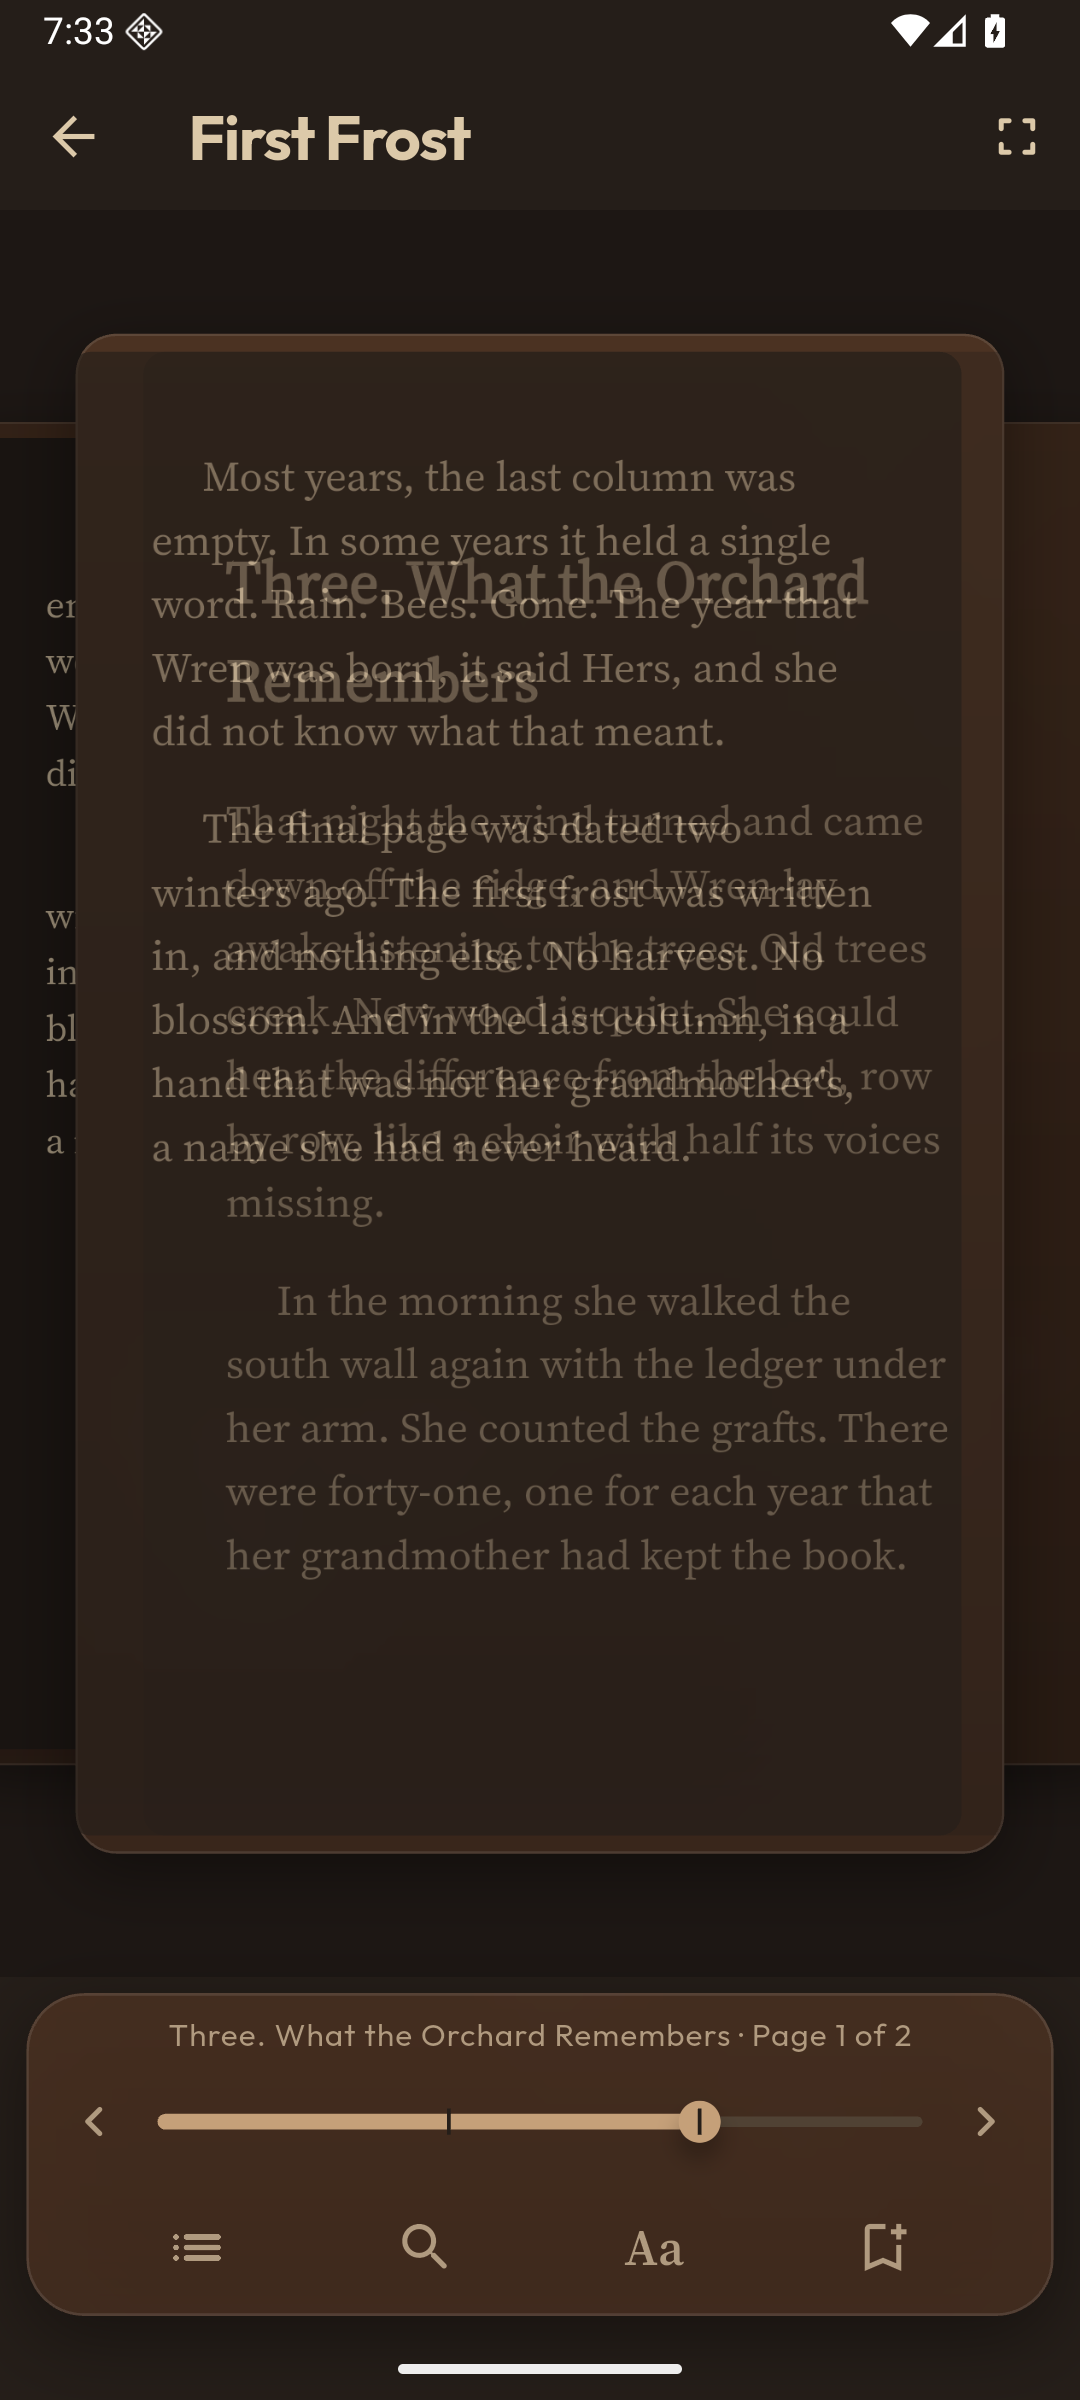
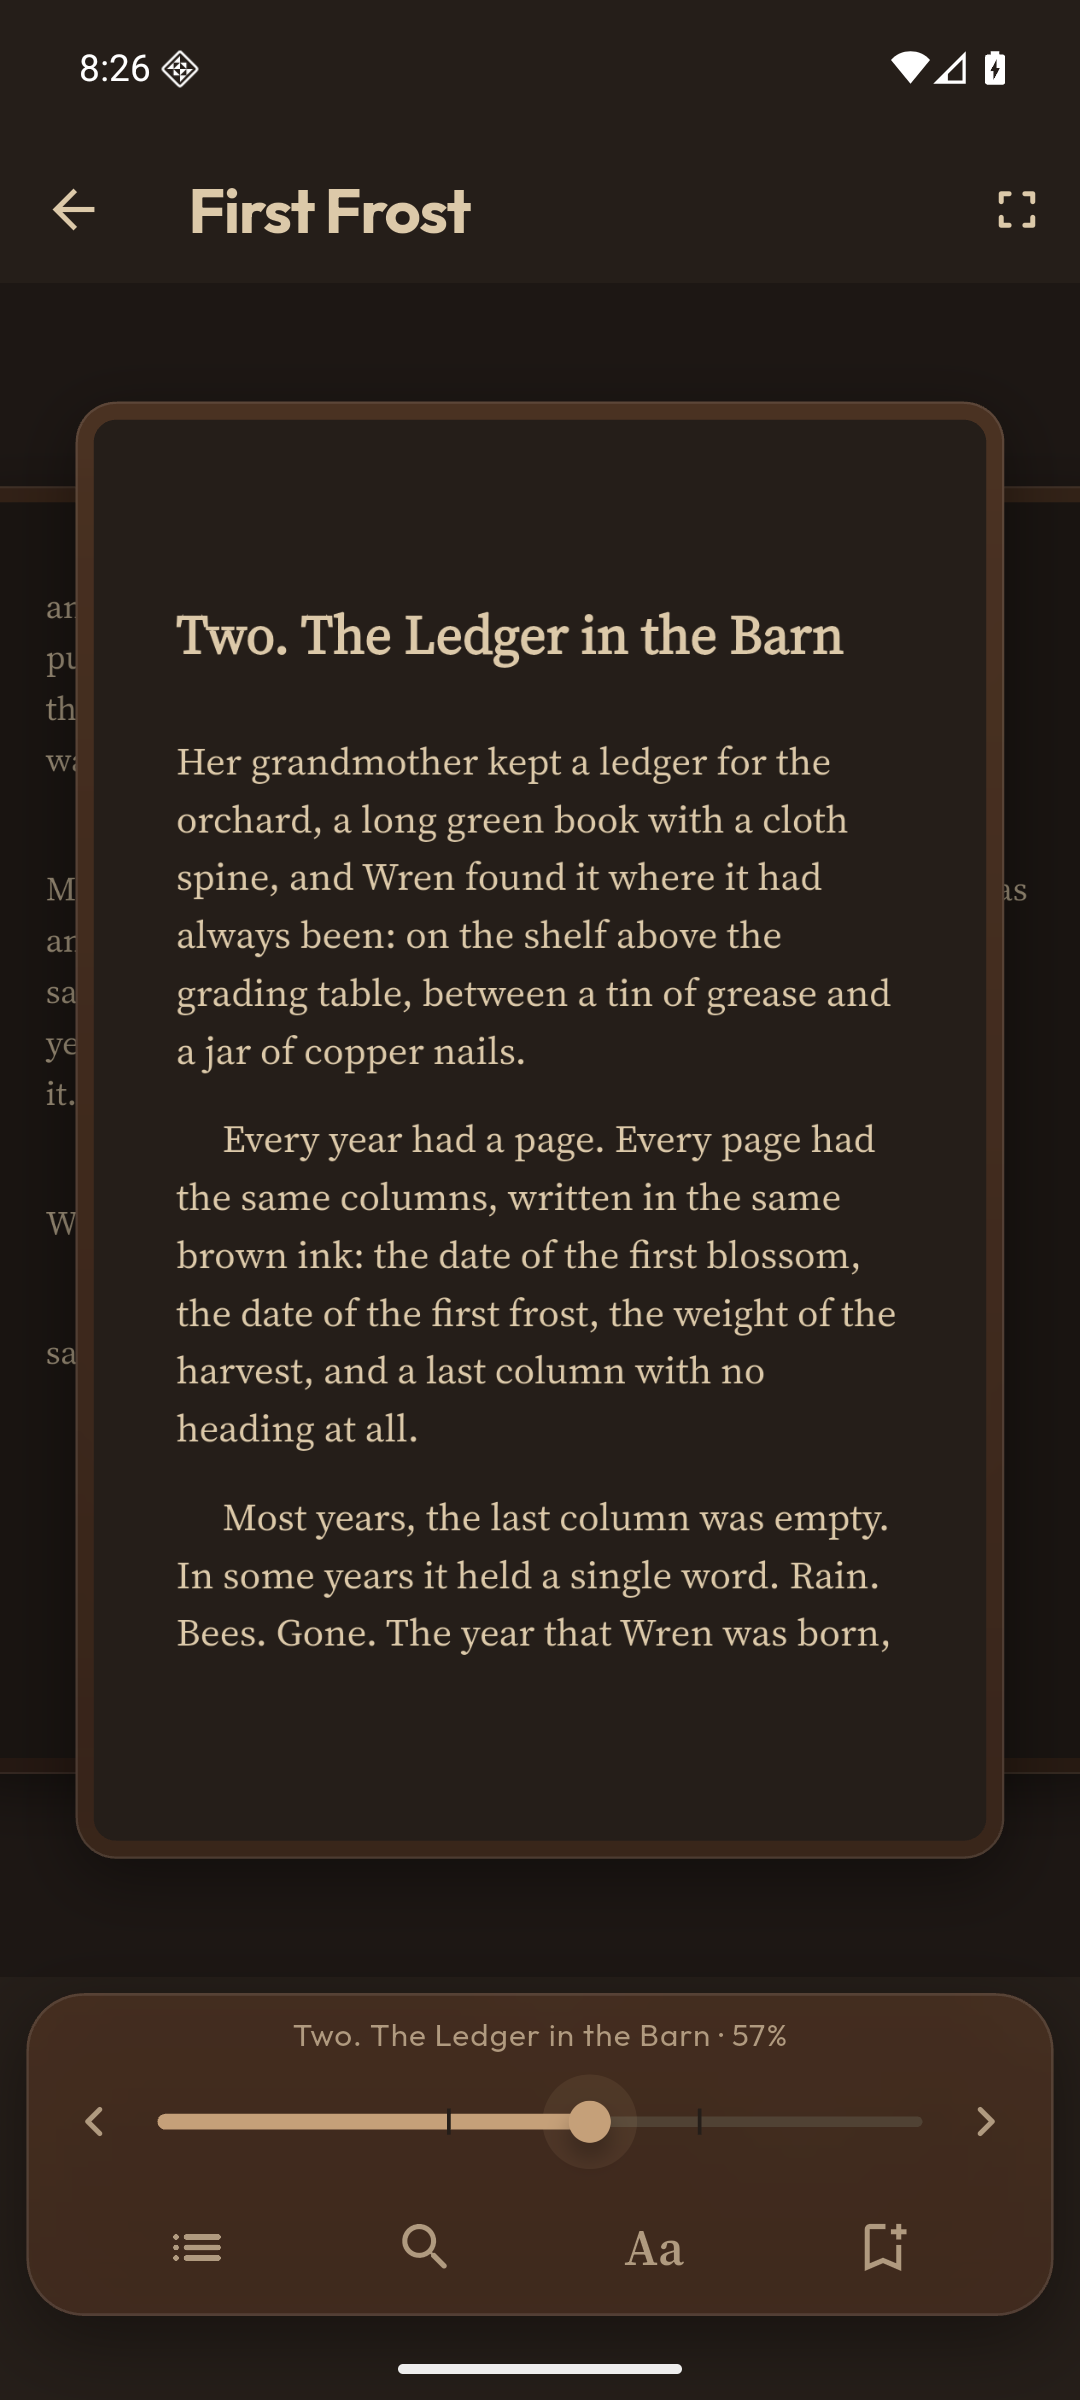
Show one page at a time on the scrub deck's front card (boo-f8ke)
The front card cross-faded the old page out while the new page faded
in, so in the middle of the fade both texts showed over each other.
The old page now leaves at once. The new page still fades and slides
in from the way the thumb moved, over the empty glass.

Retake the 06 scrub deck screenshots in night and cream, at rest and
while dragging.

diff --git a/lib/reader/scrub_deck.dart b/lib/reader/scrub_deck.dart
@@ -231,7 +231,8 @@ class _ScrubDeckState extends State<ScrubDeck>
   static const _radius = 18.0;
 
   /// A glass card that holds its drawn page, if any. With [animate], a new
-  /// page slides in from the way the thumb moved.
+  /// page slides in from the way the thumb moved, over the empty glass, and
+  /// the old page is gone at once.
   Widget _card(DeckCard card, {required bool animate}) {
     final page = card.page;
     final face = page == null
@@ -266,21 +267,20 @@ class _ScrubDeckState extends State<ScrubDeck>
           ? face
           : AnimatedSwitcher(
               duration: _instant ? Duration.zero : _shuffle,
-              transitionBuilder: (child, animation) {
-                // A new page slides in from the way the thumb moved, and the
-                // old page slides out the other way.
-                final entering = child.key == face.key;
-                return FadeTransition(
-                  opacity: animation,
-                  child: SlideTransition(
-                    position: Tween(
-                      begin: Offset((entering ? .08 : -.08) * _direction, 0),
-                      end: Offset.zero,
-                    ).animate(animation),
-                    child: child,
-                  ),
-                );
-              },
+              // The old page leaves at once, so the card never shows the
+              // text of two pages over each other.
+              layoutBuilder: (current, _) => current ?? const SizedBox.shrink(),
+              // The new page slides in from the way the thumb moved.
+              transitionBuilder: (child, animation) => FadeTransition(
+                opacity: animation,
+                child: SlideTransition(
+                  position: Tween(
+                    begin: Offset(.08 * _direction, 0),
+                    end: Offset.zero,
+                  ).animate(animation),
+                  child: child,
+                ),
+              ),
               child: face,
             ),
     );

diff --git a/test/reader/scrub_deck_test.dart b/test/reader/scrub_deck_test.dart
@@ -182,6 +182,48 @@ void main() {
     );
   });
 
+  testWidgets('when the front card turns to another page, it never shows two '
+      'pages at once, and the new page is the only one on it at rest', (
+    tester,
+  ) async {
+    await show(tester);
+    final before = drawn(3);
+    final after = drawn(4);
+    deck.value = DeckView(front: DeckCard(page: before));
+    await tester.pumpAndSettle();
+    deck.value = DeckView(front: DeckCard(page: after));
+    await tester.pump();
+    for (var frame = 0; frame < 12; frame++) {
+      final images = imageOn(front);
+      expect(images, findsOneWidget, reason: 'Frame $frame of the turn.');
+      expect(
+        tester.widget<RawImage>(images).image!.isCloneOf(after.image),
+        isTrue,
+        reason: 'Frame $frame shows the new page.',
+      );
+      await tester.pump(const Duration(milliseconds: 16));
+    }
+    await tester.pumpAndSettle();
+    expect(imageOn(front), findsOneWidget);
+  });
+
+  testWidgets('while the thumb passes several pages quickly, the front card '
+      'shows only the newest page', (tester) async {
+    await show(tester);
+    final pages = [for (var page = 0; page < 4; page++) drawn(page)];
+    deck.value = DeckView(front: DeckCard(page: pages.first));
+    await tester.pumpAndSettle();
+    for (final page in pages.skip(1)) {
+      deck.value = DeckView(front: DeckCard(page: page));
+      await tester.pump(const Duration(milliseconds: 40));
+      expect(imageOn(front), findsOneWidget);
+      expect(
+        tester.widget<RawImage>(imageOn(front)).image!.isCloneOf(page.image),
+        isTrue,
+      );
+    }
+  });
+
   testWidgets('a wide drawn page fits the width of its card', (tester) async {
     await show(tester);
     deck.value = DeckView(

diff --git a/docs/evidence/reader/native/README.md b/docs/evidence/reader/native/README.md
@@ -9,11 +9,14 @@ Date: 2026-11-08. The Android images come from a disposable emulator (AVD `bookf
 | `03-next-chapter-page.png` | A second swipe turns to the first page of chapter two. |
 | `04-larger-text.png` | The text size is three steps larger. The page still starts at "Her grandmother kept a ledger". |
 | `05-night.png` | The night theme. The page keeps its place. |
-| `06-scrub-deck.png` | A slow drag on the scrub bar shows the deck of page cards. |
+| `06-scrub-deck.png` | The thumb rests on the scrub bar in the night theme. The front card shows one page: the start of chapter two (boo-f8ke). |
+| `06-scrub-deck-night-dragging.png` | The thumb moves in the night theme. The front card shows one page: the start of chapter three. |
+| `06-scrub-deck-cream.png` | The thumb rests in the cream theme. The front card shows one page. |
+| `06-scrub-deck-cream-dragging.png` | The thumb moves in the cream theme. The front card shows one page. |
 | `07-after-scrub.png` | The drag ends on the first page of chapter three. |
 | `08-after-restart.png` | After a restart of the app, the book opens on the same page, at the same text size and theme, with its chapter title. |
 | `09-dock-hidden.png` | A tap on the page hides the dock and the app bar. The page grows and keeps its place. |
 | `macos-01-open-at-saved-place.png` | The macOS app (`tool/bookfin accept-macos`) opens First Frost at the place that an earlier run saved. |
 | `macos-02-turned-with-arrow-key.png` | The right arrow key turns to the first page of chapter two. |
 
-Images 01 to 07 come from the first build of the branch. Images 08 and 09 come from the second build, which adds the chapter title of a place that the book opened at. The two builds draw the steps of 01 to 07 the same way.
+The four 06 images come from a later check of boo-f8ke (AVD `bookfin-f8ke`, deleted after the check), with the same fixture. An earlier 06 image showed the text of two pages on one card: the card cross-faded between the old page and the new page, and the screenshot caught the middle of the fade. Images 01 to 05 and 07 come from the first build of the branch. Images 08 and 09 come from the second build, which adds the chapter title of a place that the book opened at. The two builds draw the steps of 01 to 07 the same way.

diff --git a/.tickets/boo-f8ke.md b/.tickets/boo-f8ke.md
@@ -1,6 +1,6 @@
 ---
 id: boo-f8ke
-status: open
+status: in_progress
 deps: []
 links: []
 created: 2026-11-09T01:01:26Z
@@ -13,3 +13,9 @@ parent: boo-b2ey
 
 Seen in docs/evidence/reader/native/06-scrub-deck.png (tc-1yif, Android emulator, night theme): the center card of the scrub deck shows two pages of text on top of each other ('Most years, the last column was empty...' and the heading 'Three. What the Orchard Remembers' with its paragraphs). Find the cause first: either the glass card is translucent so the neighbor card or the page behind shows through, or the deck cross-fades between two previews and the screenshot caught the middle of the fade, or two pictures are drawn in one card. The center card must show exactly one page, readable at rest; a transition, if any, must not leave two texts readable at once.
 
+
+## Notes
+
+**2026-11-09T01:27:18Z**
+
+Cause: the front card's AnimatedSwitcher cross-faded the old page out and the new page in at the same time, each sliding 8% of the card width the opposite way. Mid-fade both texts showed at about half strength, offset sideways; the tc-1yif screenshot caught that. The glass and the paper were not the cause: the paper is opaque in both themes. Fix in ScrubDeck._card: a layoutBuilder keeps only the current child, so the old page leaves at once; the new page still fades and slides in from the way the thumb moved, over the empty glass. Tests: scrub_deck_test 'when the front card turns to another page, it never shows two pages at once...' and 'while the thumb passes several pages quickly...', both red before the fix (two RawImages on the front card). Device: own AVD bookfin-f8ke (deleted), fixture via adb reverse; screenshots docs/evidence/reader/native/06-scrub-deck*.png in night and cream, at rest and while dragging.
